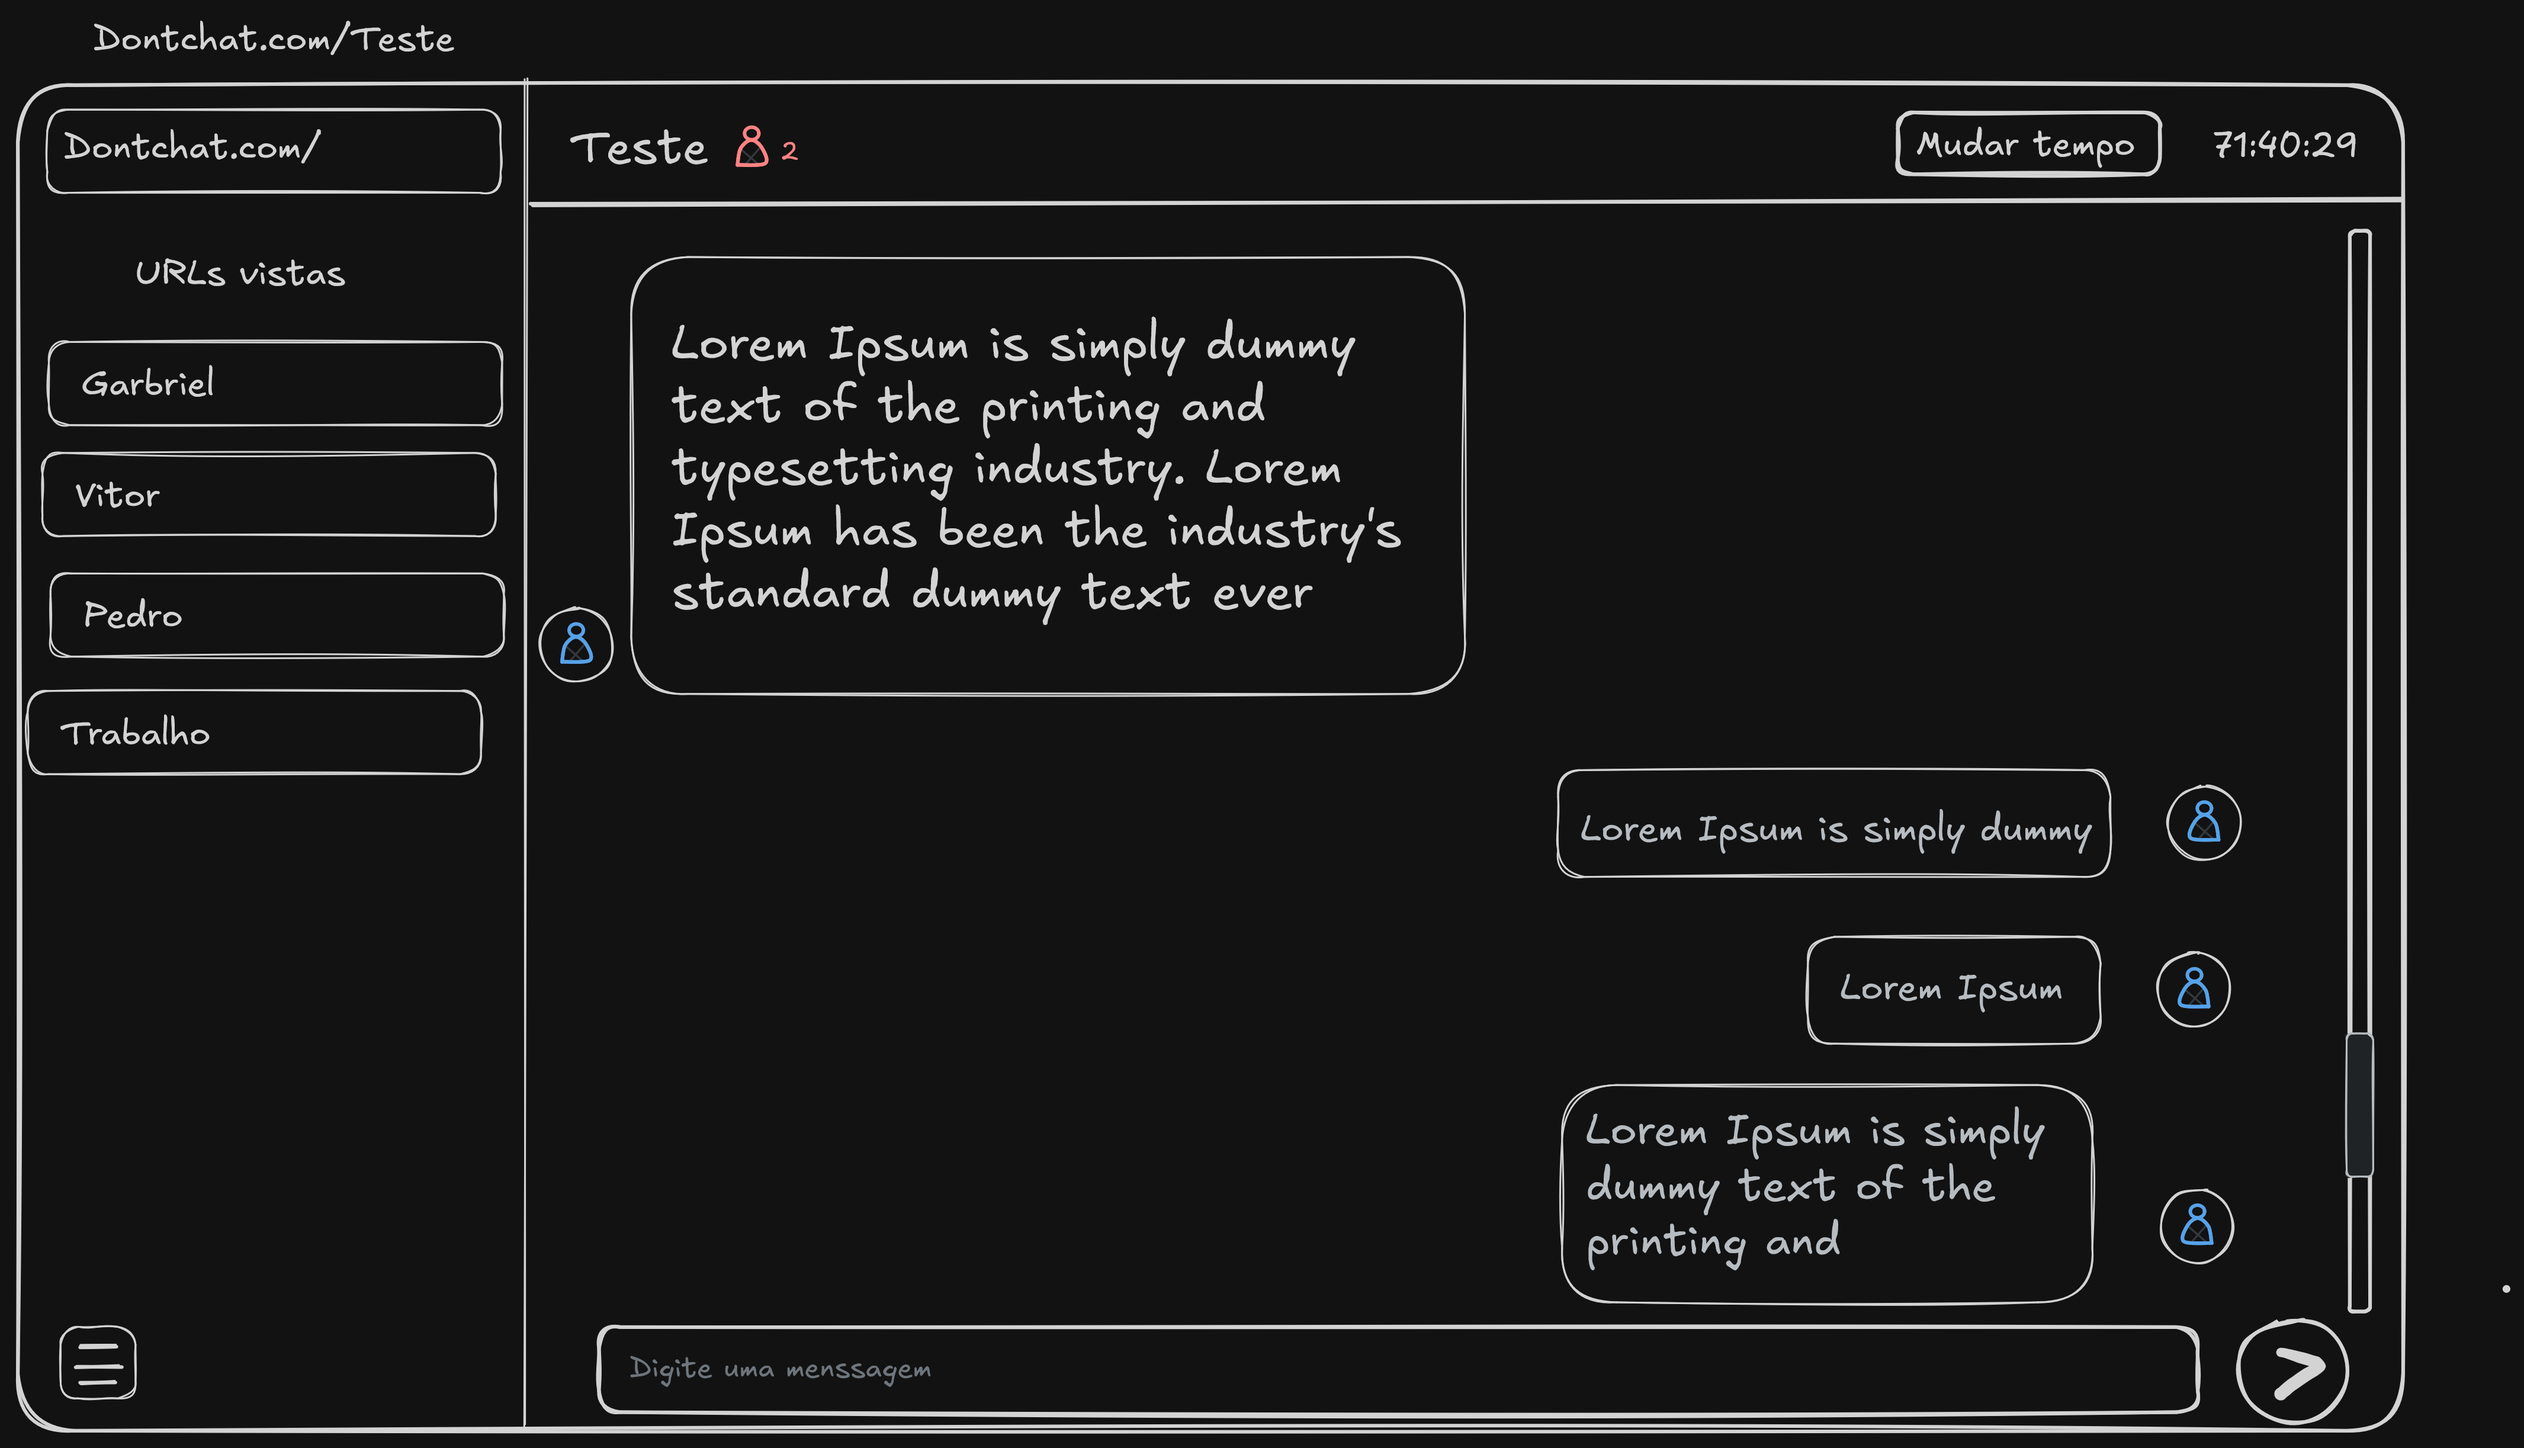
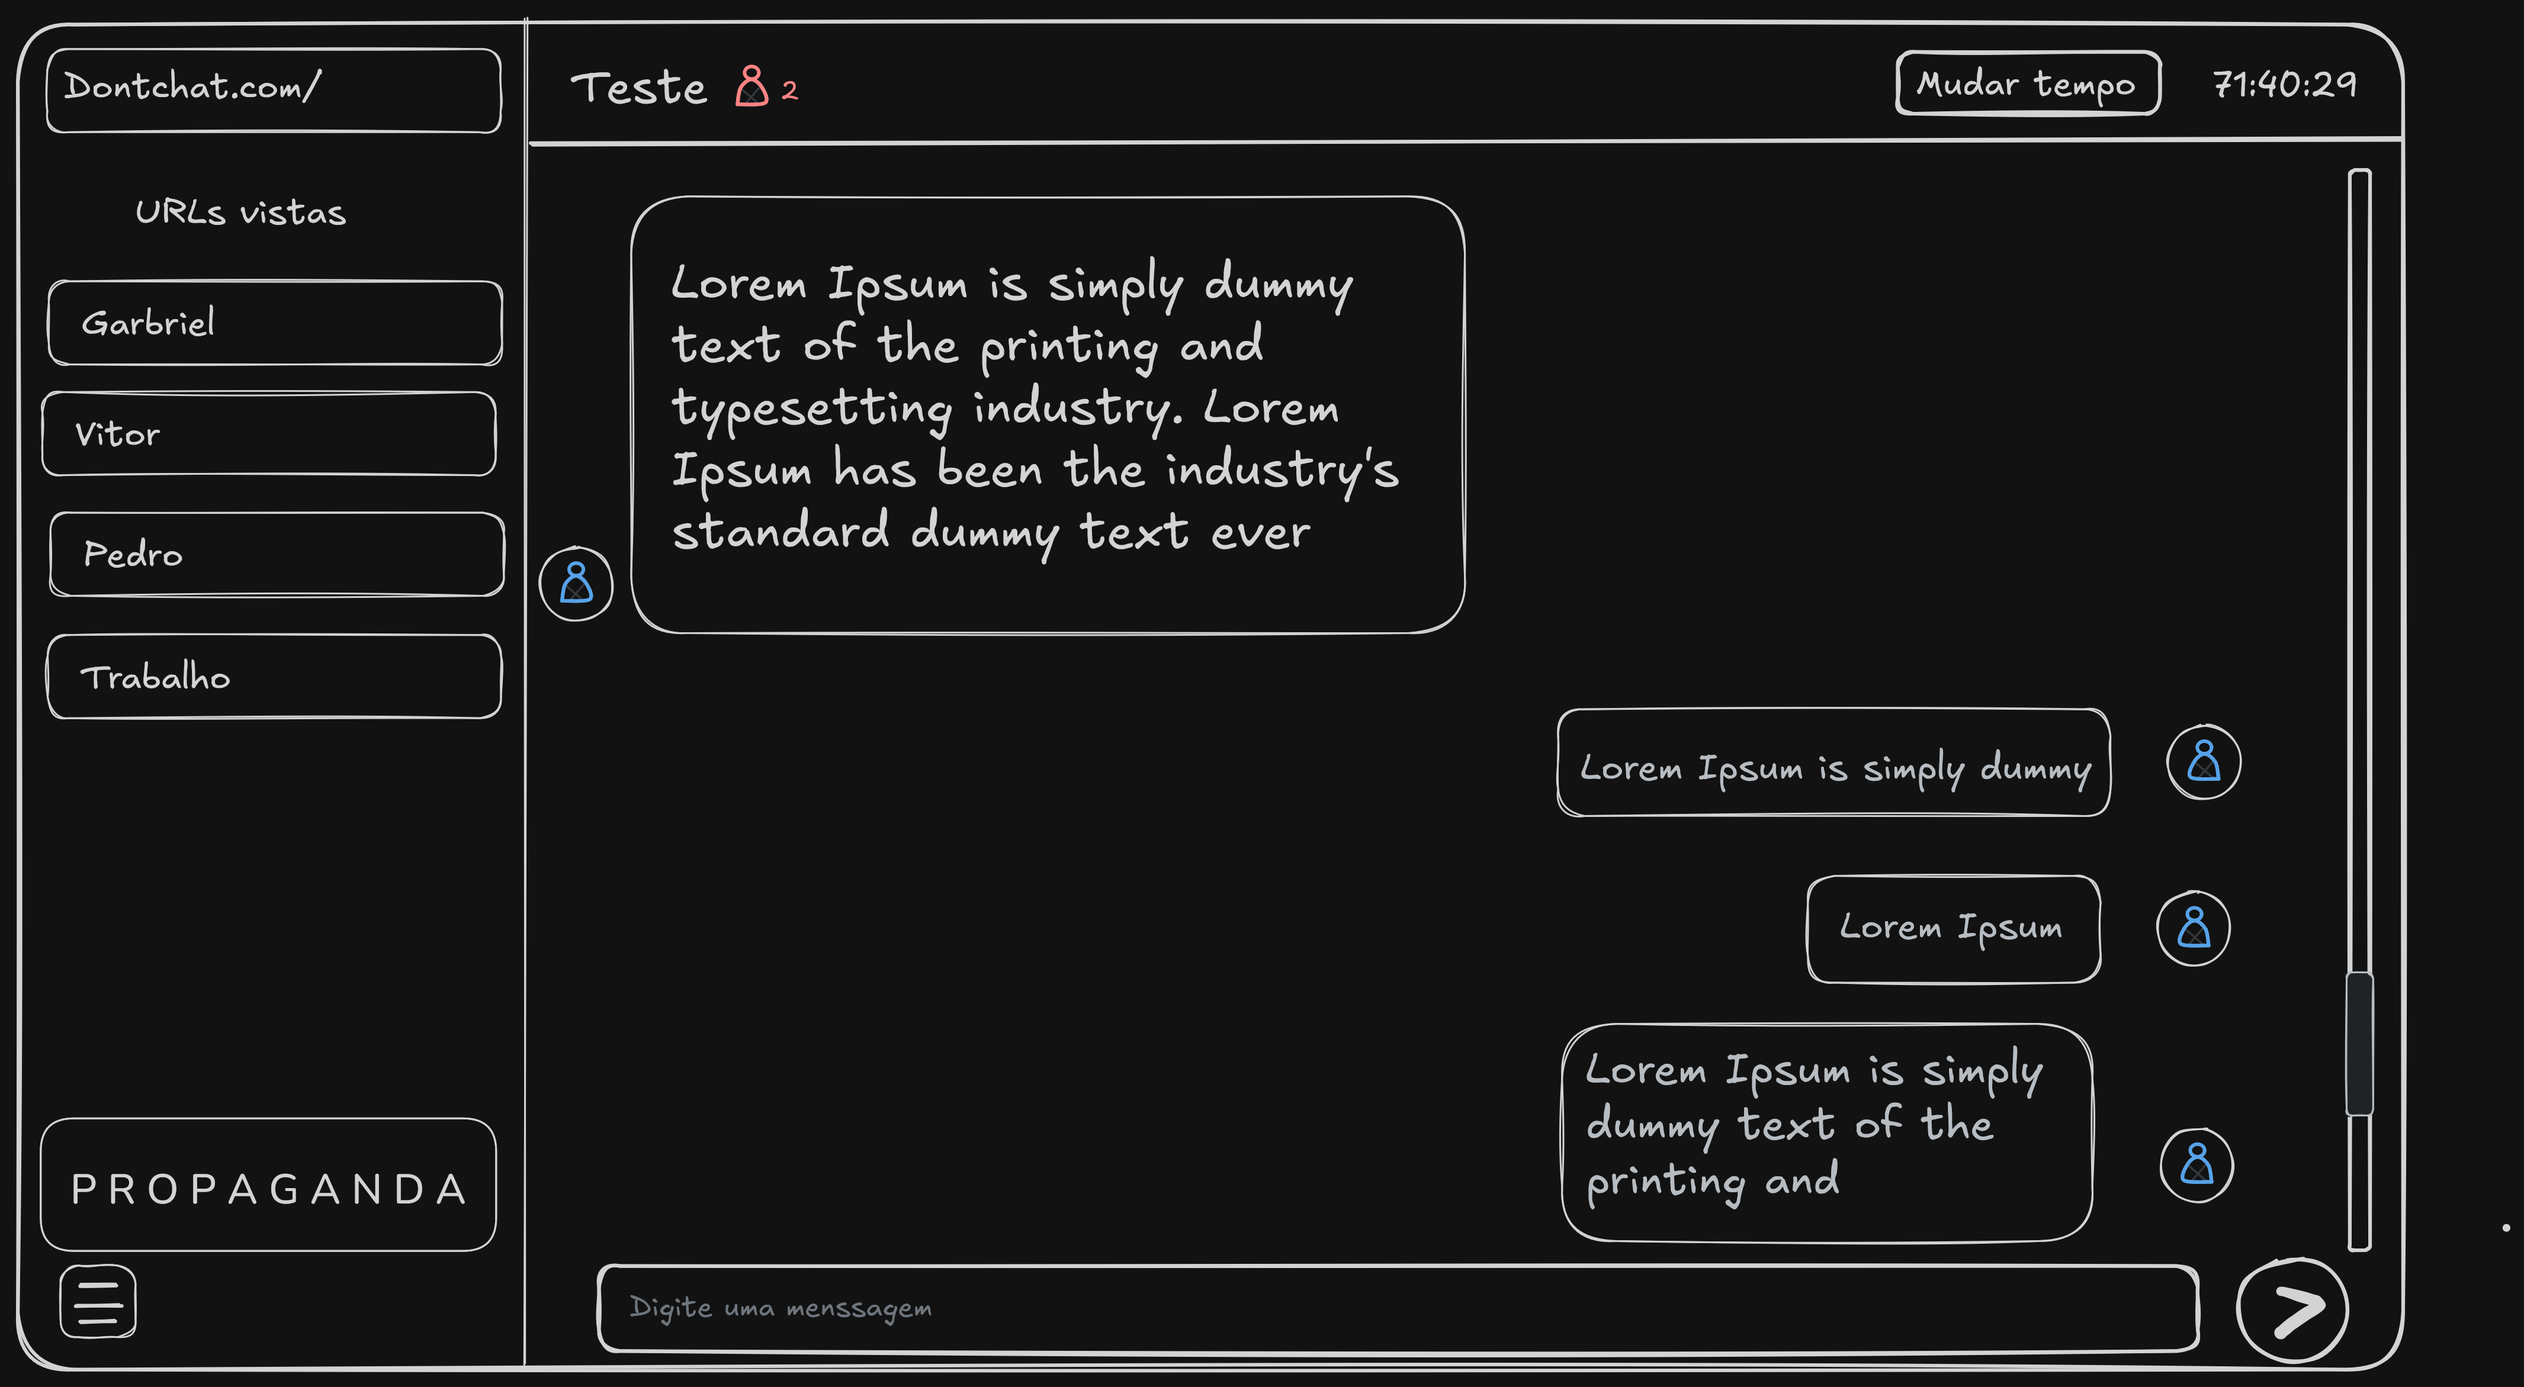
docs: readme update

diff --git a/readme.md b/readme.md
@@ -10,3 +10,14 @@ O projeto foi inspirado no site [dontpad.com](https://dontpad.com)
 ![Tela](./readme/image.png)
 
 
+[Google](https://google.com "Ir para o Google")
+Todo: 
+- [ ] banco de dados
+- [ ] rotas de usuarios
+- [ ] rotas de chats
+- [ ] Websocket para atualizar os chats em tempo real
+- [ ] sistema de apagar o chat depois de um tempo
+- [ ] clodflare para proteger contra ataques DDoS
+- [ ] propaganda
+- [ ] dockerizar o projeto
+- [ ] documentação
